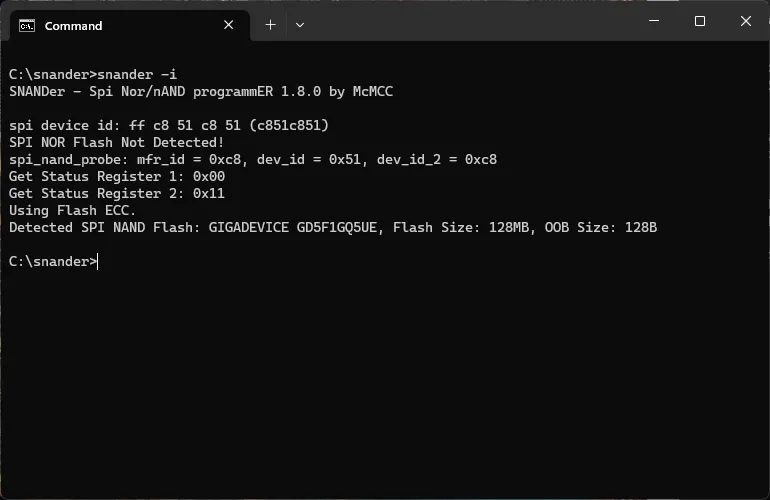
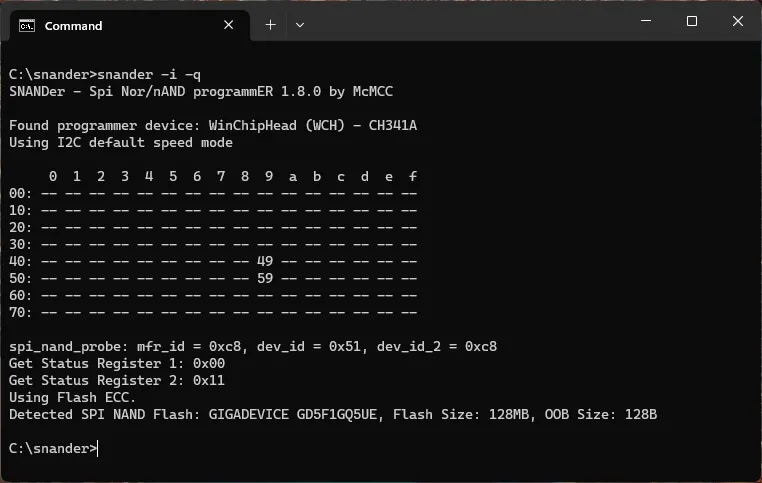
Update sigmastar-unbrick.md

diff --git a/en/sigmastar-unbrick.md b/en/sigmastar-unbrick.md
@@ -21,16 +21,24 @@ Sigmastar unbrick
 ---
 
 **Check the device flash with snander:**
+- _0x49 -> ISP_
+- _0x59 -> DEBUG_
 ```
-snander -i
+snander -i -q
 ```
 
 <img src="../images/sigmastar-check.webp">
 
-**Erase, write and verify new uboot:**
+**Erase the boot partition:**
 ```
 snander -l 0x200000 -e
-snander -w u-boot-ssc338q-nand.bin -v
+```
+
+<img src="../images/sigmastar-erase.webp">
+
+**Write the new uboot file:**
+```
+snander -w u-boot-ssc338q-nand.bin
 ```
 
 <img src="../images/sigmastar-write.webp">